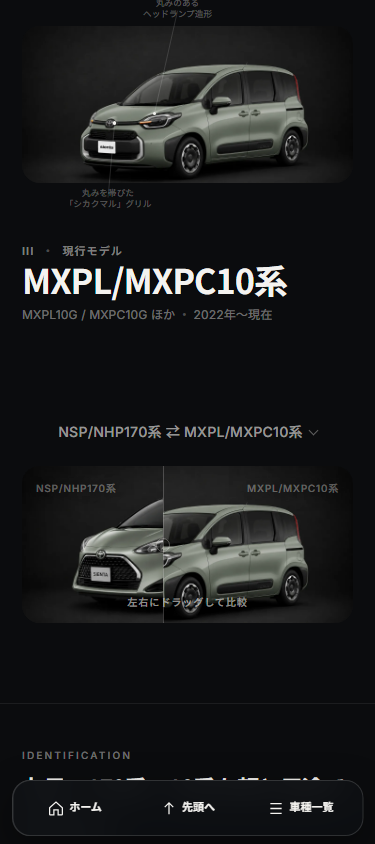
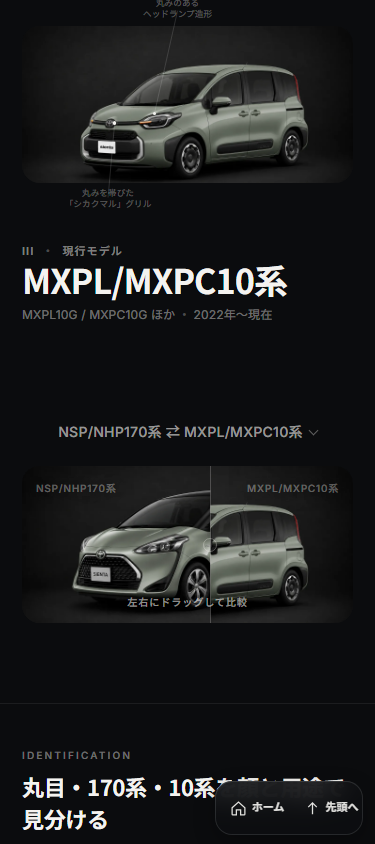
Make mobile navigation compact and non-obstructive

Changed region(s): [[0.0293, 0.9242, 0.9387, 1.0], [0.4107, 0.5853, 0.5867, 0.7393]]

diff --git a/src/mobile-navigation.css b/src/mobile-navigation.css
@@ -1,12 +1,12 @@
 .mobile-quick-nav{display:none}
 @media(max-width:699px){
-  body.has-mobile-quick-nav{padding-bottom:calc(76px + env(safe-area-inset-bottom,0px))}
-  .mobile-quick-nav{position:fixed;z-index:900;left:50%;bottom:max(8px,env(safe-area-inset-bottom,0px));display:grid;grid-template-columns:repeat(3,minmax(0,1fr));width:min(354px,calc(100% - 24px));min-height:56px;padding:5px;border:1px solid rgba(255,255,255,.14);border-radius:18px;background:rgba(13,15,18,.94);box-shadow:0 12px 36px rgba(0,0,0,.38);backdrop-filter:blur(16px);transform:translate(-50%,calc(100% + 28px));opacity:0;pointer-events:none;transition:transform 180ms ease,opacity 160ms ease}
-  .mobile-quick-nav.is-visible{transform:translate(-50%,0);opacity:1;pointer-events:auto}
+  body.has-mobile-quick-nav{padding-bottom:calc(84px + env(safe-area-inset-bottom,0px))}
+  .mobile-quick-nav{position:fixed;z-index:900;right:12px;bottom:max(9px,env(safe-area-inset-bottom,0px));display:grid;grid-template-columns:repeat(2,74px);width:148px;min-height:52px;padding:4px;border:1px solid rgba(255,255,255,.12);border-radius:17px;background:rgba(13,15,18,.86);box-shadow:0 8px 24px rgba(0,0,0,.3);backdrop-filter:blur(14px);transform:translateY(calc(100% + 28px));opacity:0;pointer-events:none;transition:transform 180ms ease,opacity 150ms ease}
+  .mobile-quick-nav.is-visible{transform:translateY(0);opacity:.92;pointer-events:auto}
   .mobile-quick-nav a,.mobile-quick-nav button{display:flex;min-width:0;min-height:44px;margin:0;padding:4px 6px;align-items:center;justify-content:center;gap:5px;border:0;border-radius:13px;background:transparent;color:#f4f3f0;font:600 11px/1.2 Inter,"Noto Sans JP",sans-serif;text-decoration:none;cursor:pointer;-webkit-tap-highlight-color:transparent;touch-action:manipulation}
   .mobile-quick-nav a:active,.mobile-quick-nav button:active{background:rgba(255,255,255,.1);transform:scale(.98)}
   .mobile-quick-nav a:focus-visible,.mobile-quick-nav button:focus-visible{outline:2px solid #a0d3ff;outline-offset:-2px}
   .mobile-quick-nav svg{width:17px;height:17px;flex:none;stroke:currentColor;stroke-width:1.8;fill:none}
-  body.mobile-quick-nav-blocked .mobile-quick-nav,.mobile-quick-nav[aria-hidden="true"]{transform:translate(-50%,calc(100% + 28px));opacity:0;pointer-events:none}
+  body.mobile-quick-nav-blocked .mobile-quick-nav,.mobile-quick-nav[aria-hidden="true"]{transform:translateY(calc(100% + 28px));opacity:0;pointer-events:none}
 }
 @media(prefers-reduced-motion:reduce){.mobile-quick-nav{transition:none}.mobile-quick-nav a:active,.mobile-quick-nav button:active{transform:none}}

diff --git a/src/mobile-navigation.js b/src/mobile-navigation.js
@@ -9,16 +9,33 @@ document.addEventListener('DOMContentLoaded',()=>{
     const field=document.activeElement?.matches?.('input,textarea,select,[contenteditable="true"]')
     return Boolean(field)
   }
+  const overlapsVehicleContent=()=>{
+    if(innerWidth>=700)return false
+    const bottom=Math.max(9,Number.parseFloat(getComputedStyle(nav).bottom)||0)
+    const right=12,left=innerWidth-right-148,top=innerHeight-bottom-52
+    const points=[18,74,130].flatMap(x=>[8,26,44].map(y=>[left+x,top+y]))
+    return points.some(([x,y])=>document.elementFromPoint(x,y)?.closest('img,picture,figure,a,button,h1,h2,h3,h4,p,li,table,.timeline-item,.detail-visual,.generation-card,.lc-car,.comparison-card'))
+  }
+  let scrollingDown=false,lastY=scrollY,stopTimer
   const update=()=>{
     const blocked=modalIsOpen()||keyboardIsOpen()
-    const visible=window.scrollY>320&&!blocked
+    const visible=window.scrollY>320&&!blocked&&!scrollingDown&&!overlapsVehicleContent()
     document.body.classList.toggle('mobile-quick-nav-blocked',blocked)
     nav.classList.toggle('is-visible',visible)
     nav.setAttribute('aria-hidden',visible?'false':'true')
   }
   let ticking=false
   const requestUpdate=()=>{if(ticking)return;ticking=true;requestAnimationFrame(()=>{ticking=false;update()})}
-  addEventListener('scroll',requestUpdate,{passive:true})
+  const onScroll=()=>{
+    const current=scrollY,delta=current-lastY
+    if(delta>5)scrollingDown=true
+    else if(delta< -5)scrollingDown=false
+    lastY=current
+    clearTimeout(stopTimer)
+    requestUpdate()
+    stopTimer=setTimeout(()=>{scrollingDown=false;update()},650)
+  }
+  addEventListener('scroll',onScroll,{passive:true})
   addEventListener('resize',requestUpdate,{passive:true})
   window.visualViewport?.addEventListener('resize',requestUpdate,{passive:true})
   document.addEventListener('focusin',requestUpdate)

diff --git a/vite.config.js b/vite.config.js
@@ -720,7 +720,7 @@ function seoInjectPlugin() {
     name: 'car-evolution-seo-inject',
     async transformIndexHtml(html, ctx) {
       const filename = ctx.filename.split(/[\\/]/).pop()
-      const quickNav = `<nav class="mobile-quick-nav" data-mobile-quick-nav aria-label="ページ内クイックナビ" aria-hidden="true"><a href="/" aria-label="ホームへ"><svg aria-hidden="true" viewBox="0 0 24 24"><path d="m3 11 9-8 9 8v9a1 1 0 0 1-1 1h-5v-7H9v7H4a1 1 0 0 1-1-1Z"/></svg><span>ホーム</span></a><button type="button" data-scroll-top aria-label="ページ先頭へ"><svg aria-hidden="true" viewBox="0 0 24 24"><path d="m6 10 6-6 6 6M12 4v16"/></svg><span>先頭へ</span></button><a href="/#all-cars" aria-label="車種一覧へ"><svg aria-hidden="true" viewBox="0 0 24 24"><path d="M4 5h16M4 12h16M4 19h16"/></svg><span>車種一覧</span></a></nav>`
+      const quickNav = `<nav class="mobile-quick-nav" data-mobile-quick-nav aria-label="ページ内クイックナビ" aria-hidden="true"><a href="/" aria-label="ホームへ"><svg aria-hidden="true" viewBox="0 0 24 24"><path d="m3 11 9-8 9 8v9a1 1 0 0 1-1 1h-5v-7H9v7H4a1 1 0 0 1-1-1Z"/></svg><span>ホーム</span></a><button type="button" data-scroll-top aria-label="ページ先頭へ"><svg aria-hidden="true" viewBox="0 0 24 24"><path d="m6 10 6-6 6 6M12 4v16"/></svg><span>先頭へ</span></button></nav>`
       if (!html.includes('data-mobile-quick-nav')) html = html.replace('</body>', `${quickNav}</body>`)
       // Retain inert ownership metadata; do not load advertising JavaScript.
       const withAdSenseVerification = (tags) => [
